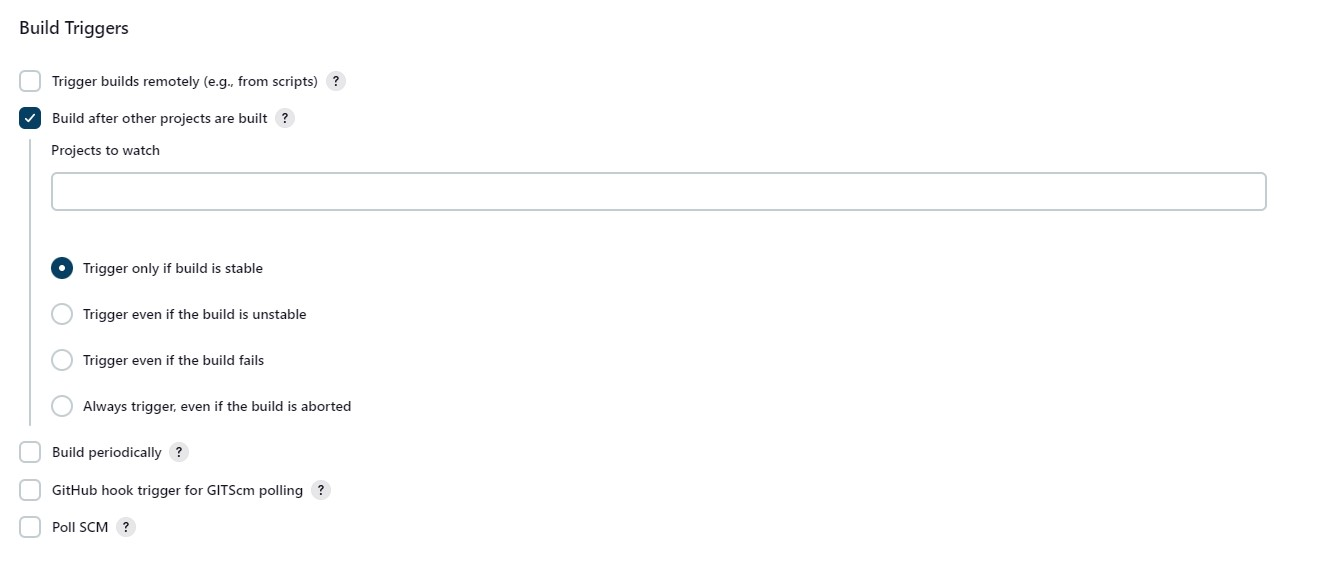
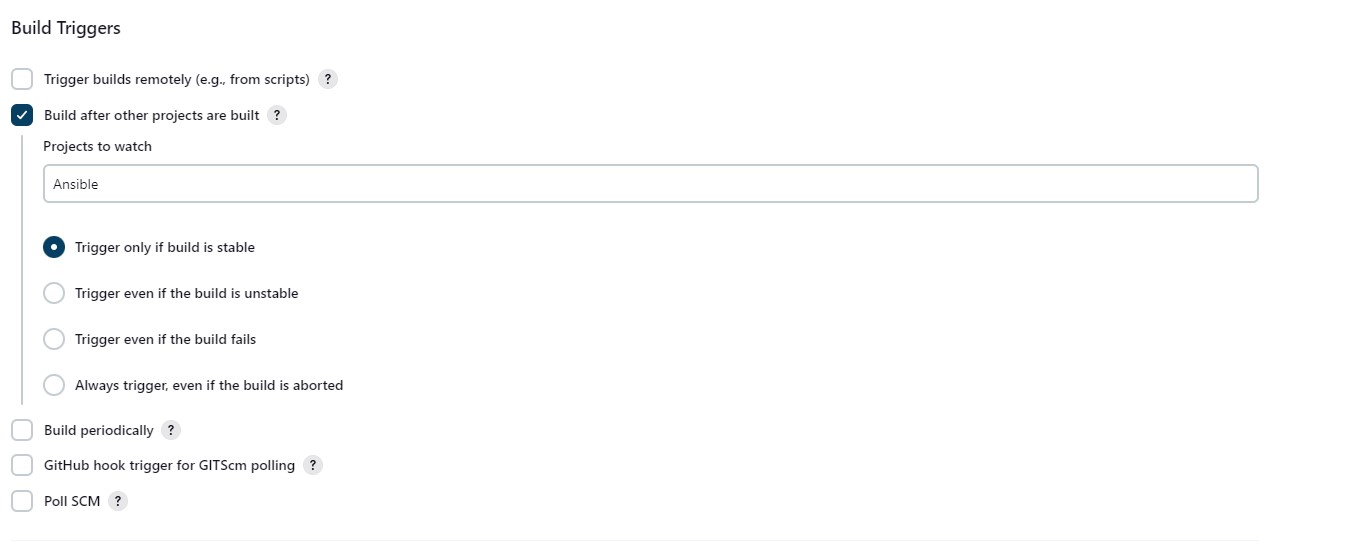
final commit

diff --git a/README.md b/README.md
@@ -5,11 +5,228 @@
 
 *The objective of this project is to improve the Ansible code by refactoring it and creating assignments, and to learn how to use the imports functionality to effectively re-use previously created playbooks in a new playbook. Refactoring involves making changes to the source code to enhance its readability, maintainability, extensibility, and reduce complexity without changing the expected behavior of the software. The main goal is to organize tasks and reuse them when needed while keeping the infrastructure state the same.*
 
-**Step 1**
+**Step 1: Enhancement of the Jenkins job**
+
+This is a continuation of [workplace-11](https://github.com/olaniyi2oguns/Workplace-11.git). So, before we continue, we need to make some changes to the jenkins job because every new change in the codes creates a separate directory which is not very convenient when we want to run some commands from one place. Also, it occupies more space on the jenkins server with each subsequent change. So there is a need to enhance by creating a new job called "save_artifact". To achieve this we will need to install a "copy Artifact" plugin.
+
+Login into your Jenkins server and click on "manage jenkins" and click on plugins. Click on available and search for "copy Artifact" and install it. 
+
+![copy-artifact](./images/artifact-plugin.jpg)
+
+On your terminal, bring up your jenkins server, create a new direcotory and name it "ansible-config-artifact"
+
+`sudo mkdir /home/ubuntu/ansible-config-artifact`
+
+Change the permission of the directory so allow artifacts to be saved on it
+
+`chmod 777 /home/ubuntu/ansible-config-artifact`
+
+On your browser, go back to your jenkins server and create a freestyle project and call it **"save_artifact"**
+
+The save_artifact project will be built once an existing "Ansible" project in [workplace-11](https://github.com/olaniyi2oguns/Workplace-11.git) is completed. Configure the Save_artifact project by clicking on configure and fill the general box as shown below:
+
+![configure](./images/build-to-keep.jpg)
 
 
-**Step 2**
+![triggar](./images/build-triggers.jpg)
 
-**Step 3**
+Note: You can configure number of builds to keep in order to save space on the server, for example, you might want to keep only last 2 or 5 build results. You can also make this change to your Ansible job.
 
-**Step 4**
+The reason for creating `save_artifact` project is to save the artifact of job built in `Ansible` project into `/home/ubuntu/ansible-config-artifact` directory. So, to achieve this, you need to create a Build step and choose `copy artifacts form other project`, then specify `Ansible` as a source project and `/home/ubuntu/ansible-config-artifact` as a target directory.
+
+![target](./images/build-steps.jpg)
+
+Save your changes and test your configuration by making some changes in your ReadMe.md file inside your repository. 
+
+If both `Ansible` and `Save_artifacts` jobs are completed successfully, you should find the all files inside `/home/ubuntu/ansible-config-artifact` directory and it will be updated with every commit to your `main/master` branch.
+
+**Step 2: Refactor Ansible Code by Importing Other Playbooks Into Site.yaml**
+To start refactoring, you need to ensure that you have pulled the latest code from main/master branch of [workplace-11](https://github.com/olaniyi2oguns/Workplace-11.git). Then, create an new branch and name it `refactor` 
+
+DevOps philosophy promotes continuous improvement for enhanced efficiency, where techniques like refactoring play a vital role. However, it's important to address the question of "why" before making any changes. Why should we modify something if it's already functioning well?
+
+Let's consider your previous approach in [workplace-11](https://github.com/olaniyi2oguns/Workplace-11.git), where you wrote all tasks in a single playbook called common.yaml. Currently, this playbook consists of simple instructions for only two types of operating systems. However, imagine if you had numerous tasks and needed to apply this playbook to different servers with varying requirements. In such cases, you would have to review the entire playbook to determine if all the tasks are relevant and if any additions are needed for specific server/OS families. Soon, this process would become tedious, resulting in a cluttered playbook with numerous commented sections. Your DevOps colleagues would find this organizational structure inefficient, making it challenging for them to utilize your playbook effectively.
+
+Although many Ansible users initially learn the one-file approach, breaking tasks into separate files is an excellent strategy for organizing complex sets of tasks and promoting reusability.
+
+Within playbooks folder, create a new file and name it `site.yaml`. This file will serve as a new entry point into the entire infrastruture configuration while other playbooks will serve as a reference. Thus, this mean that the `site.yaml` will become a parent to all other playbooks that will be developed. Including `common.yaml` that you created in [workplace-11](https://github.com/olaniyi2oguns/Workplace-11).
+
+Create a new folder in root of the repository and name it `static-assignments`. This is where all other children playbooks will be stored. 
+
+**Note:** This is merely for easy organization of your work. It is not an Ansible specific concept, therefore you can choose how you want to organize your work.
+
+Now, move `common.yaml` file into the newly created `static-assignments` folder. Inside, `site.yaml` file, import `common.yaml` playbook. 
+
+```
+---
+- hosts: all
+- import_playbook: ../static-assignments/common.yaml
+```
+The code above uses built in import_playbook Ansible module.
+
+Your folder structure should look like this;
+
+![file structure](./images/file-structure.jpg)
+
+Run ansible-playbook command against the dev environment. However, since wireshark is already installed in [workplace-11](https://github.com/olaniyi2oguns/Workplace-11), there is need to create another playbook under static-assignments and name it `common-del.yaml`. In this playbook, configure deletion of wireshark utility.
+
+```
+---
+- name: update web, and nfs
+  hosts: webservers, nfs,
+  remote_user: ec2-user
+  become: yes
+  become_user: root
+  tasks:
+  - name: delete wireshark
+    yum:
+      name: wireshark
+      state: removed
+
+- name: update db and LB server
+  hosts: db, lb
+  remote_user: ubuntu
+  become: yes
+  become_user: root
+  tasks:
+  - name: delete wireshark
+    apt:
+      name: wireshark-qt
+      state: absent
+      autoremove: yes
+      purge: yes
+      autoclean: yes
+      
+```
+update `site.yaml` with - `import_playbook: ../static-assignments/common-del.yaml` instead of `common.yaml` and run it against dev servers:
+
+```
+cd /home/ubuntu/ansible-config-ansible/
+
+ansible-playbook -i inventory/dev.yaml playbooks/site.yaml
+```
+NOTE: You need to pull your code in refactor branch to the main/master branch before running your ansible playbook. 
+Also, you have to ssh into your jenkins server before runinning the playbook. check [workplace-11](https://github.com/olaniyi2oguns/Workplace-11) to see how to ssh from your gitbash terminal into your jenkins server.
+
+![ansible-1](./images/ansible-playbook-output1.jpg)
+
+Make sure that wireshark is deleted on all the servers by running `wireshark --version`
+
+Now you have learned how to use import_playbooks module and you have a ready solution to install/delete packages on multiple servers with just one command.
+
+**Step 3: Configure UAT Webservers with a role ‘Webserver’**
+
+Launch 2 fresh EC2 instances using RHEL 8 image, we will use them as our uat servers, so give them names accordingly – Web1-UAT and Web2-UAT.
+
+On your VScode, create a directory called `webserver` and manually create directories and files inside and make your folder structure look as shown below:
+
+![webserver](./images/webserver.jpg)
+
+On your inventory file, update your `UAT.yaml` file
+
+![uat](./images/uatweberserver.jpg)
+
+It is time to start adding some logic to the webserver role. Go into tasks directory, and within the `main.yaml` file, start writing configuration tasks to do the following:
+
+Install and configure Apache (httpd service)
+Clone Tooling website from GitHub `https://github.com/<your-name>/tooling.git`.
+Ensure the tooling website code is deployed to `/var/www/html` on each of 2 UAT Web servers.
+Make sure httpd service is started
+Your `main.yaml` may consist of following tasks:
+
+```
+---
+- name: install apache
+  become: true
+  ansible.builtin.yum:
+    name: "httpd"
+    state: present
+
+- name: install git
+  become: true
+  ansible.builtin.yum:
+    name: "git"
+    state: present
+
+- name: clone a repo
+  become: true
+  ansible.builtin.git:
+    repo: https://github.com/olaniyi2oguns/tooling.git
+    dest: /var/www/html
+    force: yes
+
+- name: copy html content to one level up
+  become: true
+  command: cp -r /var/www/html/html/ /var/www/
+
+- name: Start service httpd, if not started
+  become: true
+  ansible.builtin.service:
+    name: httpd
+    state: started
+
+- name: recursively remove /var/www/html/html/ directory
+  become: true
+  ansible.builtin.file:
+    path: /var/www/html/html
+    state: absent
+```
+NOTE: Ensure you are using ssh-agent to ssh into the Jenkins-Ansible instance just as you have done in [workplace-11](https://github.com/olaniyi2oguns/Workplace-11);
+
+To learn how to setup SSH agent and connect VS Code to your Jenkins-Ansible instance, please see this video:
+
+For Windows users – [ssh-agent on windows](https://youtu.be/OplGrY74qog)
+
+For Linux users – [ssh-agent on linux](https://youtu.be/OplGrY74qog)
+
+cd into `/home/ubuntu/ansible-config-ansible/` on the jenkins server and create a file `role` and paste in 
+
+```
+[defaults]
+roles_path = roles/
+```
+
+**Step 4: Reference ‘Webserver’ role**
+
+Within the static-assignments folder, create a new assignment for uat-webservers `uat-webservers.yaml`. This is where you will reference the role.
+
+```
+---
+- hosts: uat-webservers
+  roles:
+     - webserver
+```
+
+Remember that the entry point to our ansible configuration is the site.yml file. Therefore, you need to refer your `uat-webservers.yaml` role inside `site.yaml`.
+
+So, we should have this in `site.yaml`
+
+```
+---
+- hosts: all
+- import_playbook: ../static-assignments/common.yaml
+
+- hosts: uat-webservers
+- import_playbook: ../static-assignments/uat-webservers.yaml
+```
+
+**Step 5: Commit and Test**
+
+Commit your changes and make sure webhook triggered two consequent Jenkins jobs, they ran successfully and copied all the files to your Jenkins server into `/home/ubuntu/ansible-config-ansible/` directory.
+
+
+Now run the playbook against your uat inventory and see what happens:
+
+`sudo ansible-playbook -i /home/ubuntu/ansible-config-ansible/inventory/uat.yaml /home/ubuntu/ansible-config-ansible/playbooks/site.yam`
+
+![ansible](./images/ansibleplaybook.jpg)
+l
+You should be able to see both of your UAT Web servers configured and you can try to reach them from your browser:
+
+`http://<Web1-UAT-Server-Public-IP-or-Public-DNS-Name>/index.php`
+
+or
+
+`http://<Web1-UAT-Server-Public-IP-or-Public-DNS-Name>/index.php`
+
+![output](./images/web-1-output.jpg)
